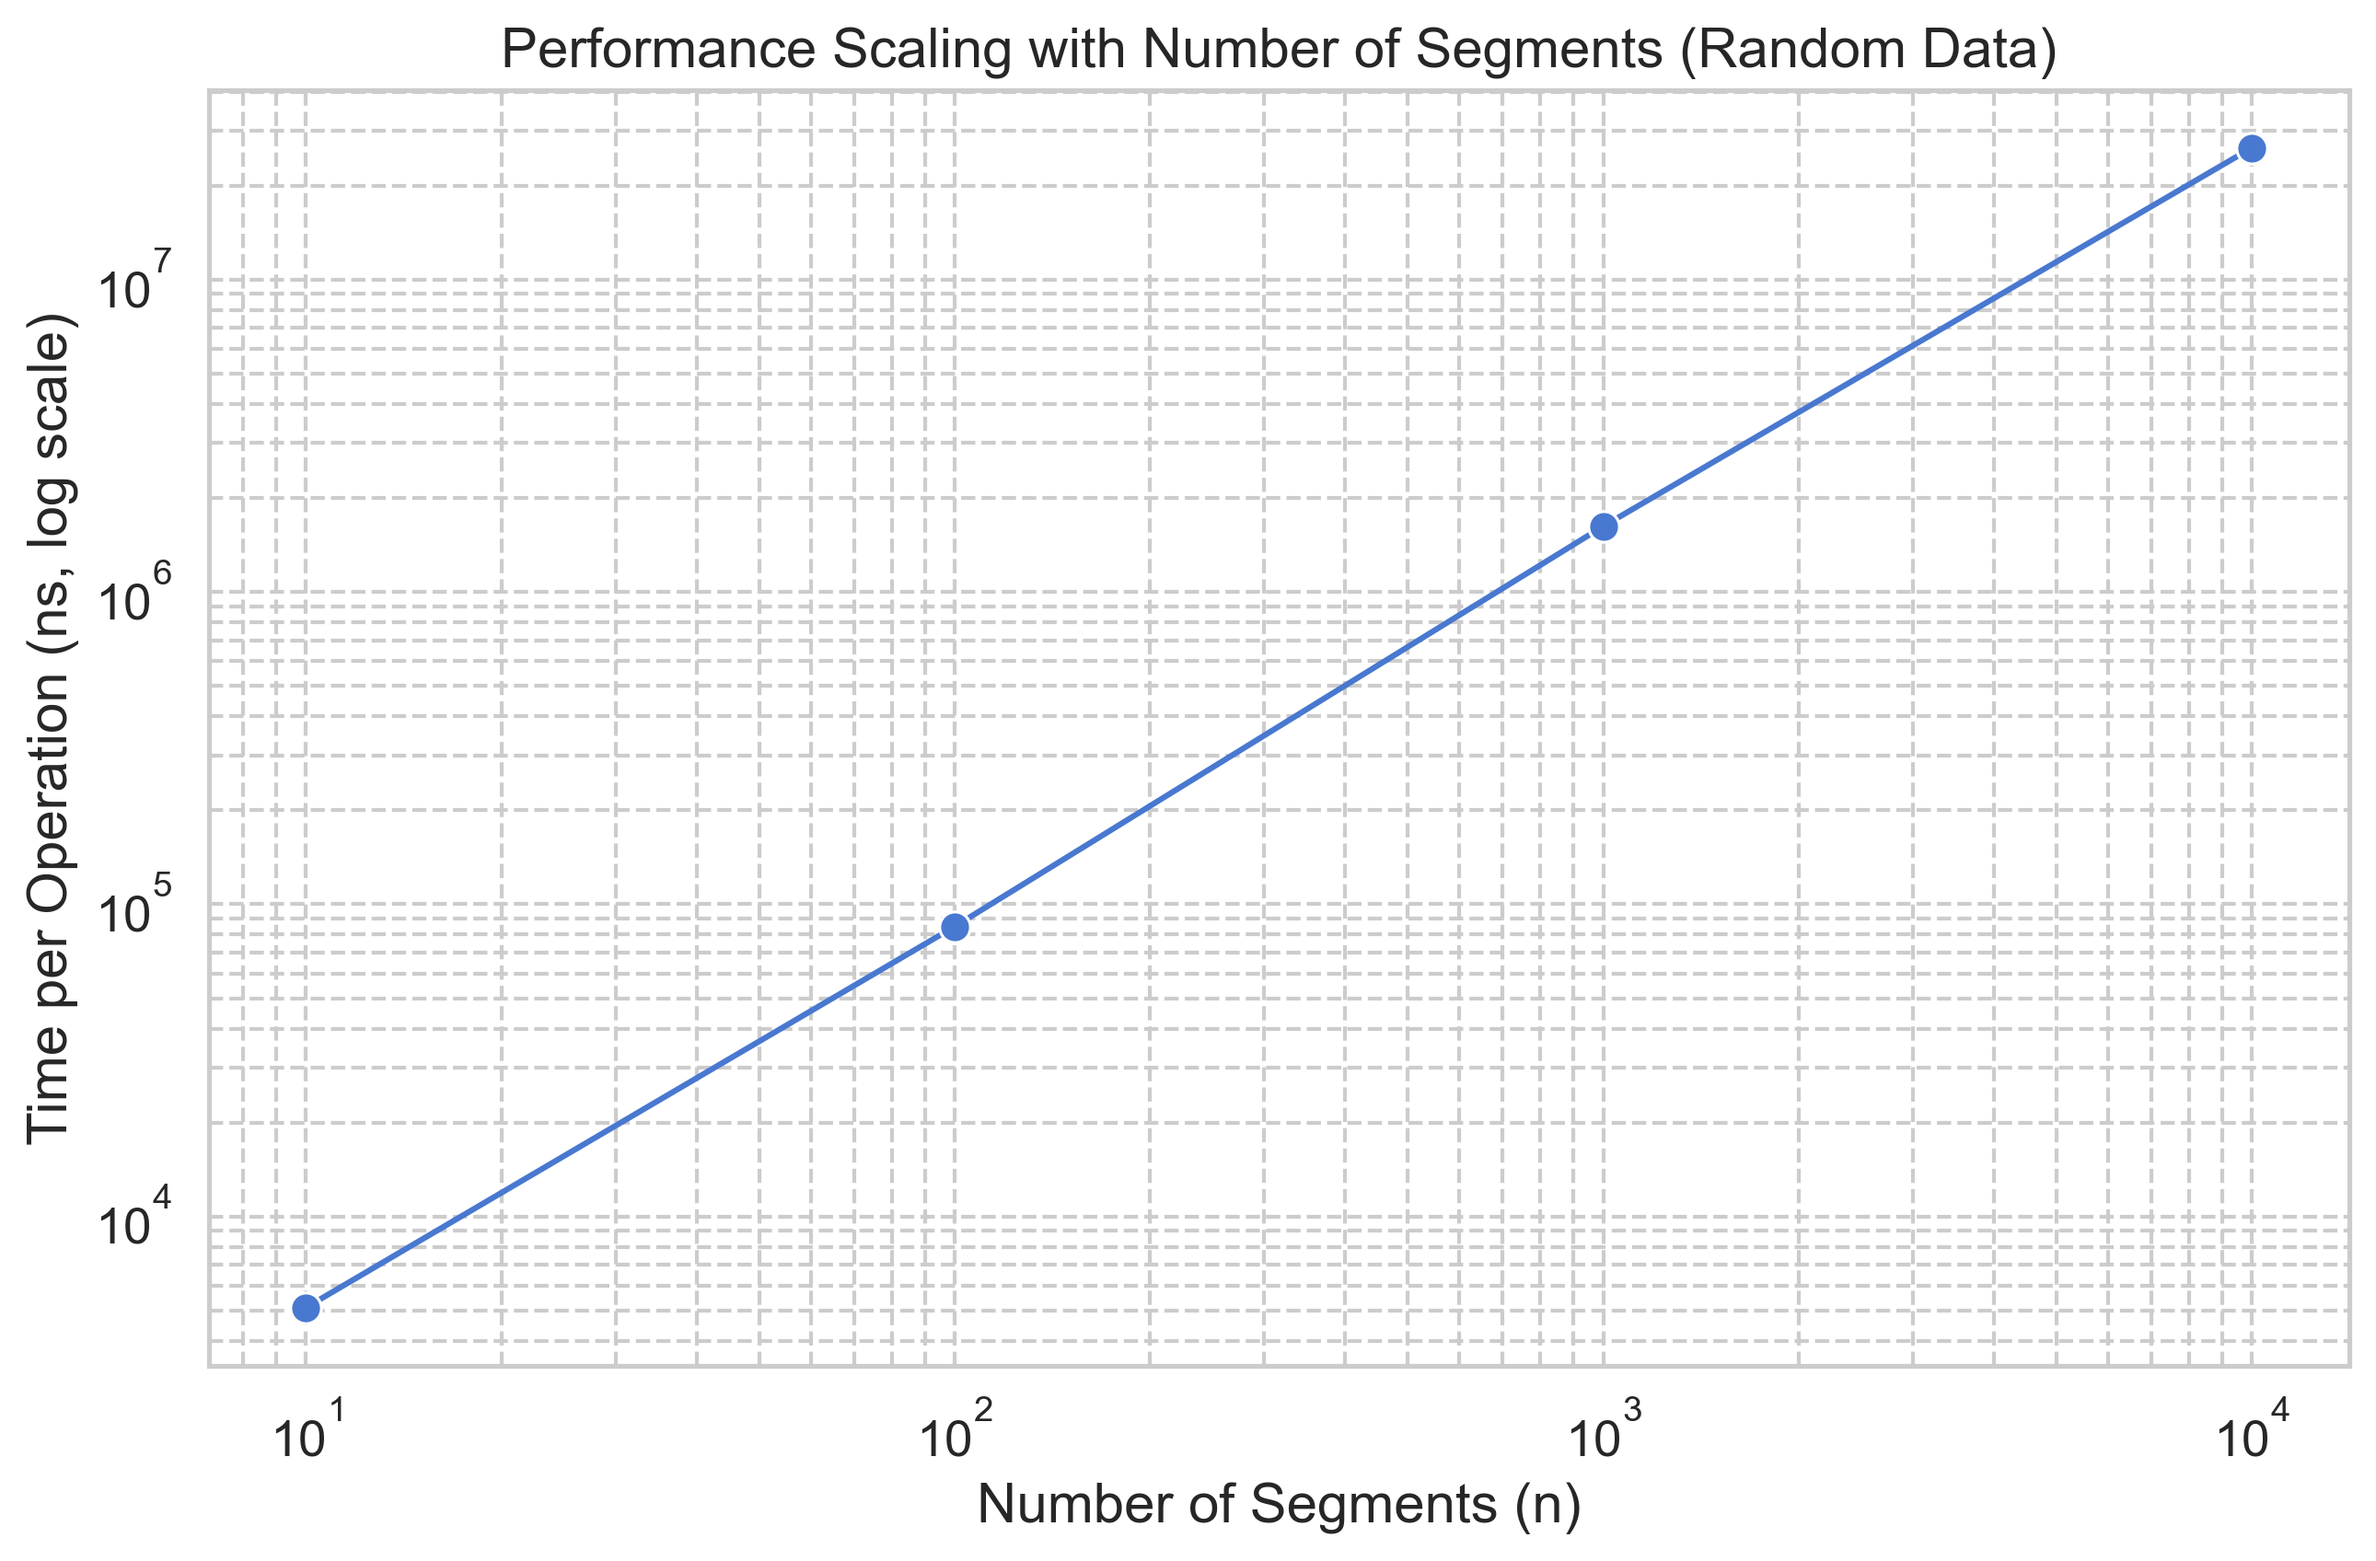
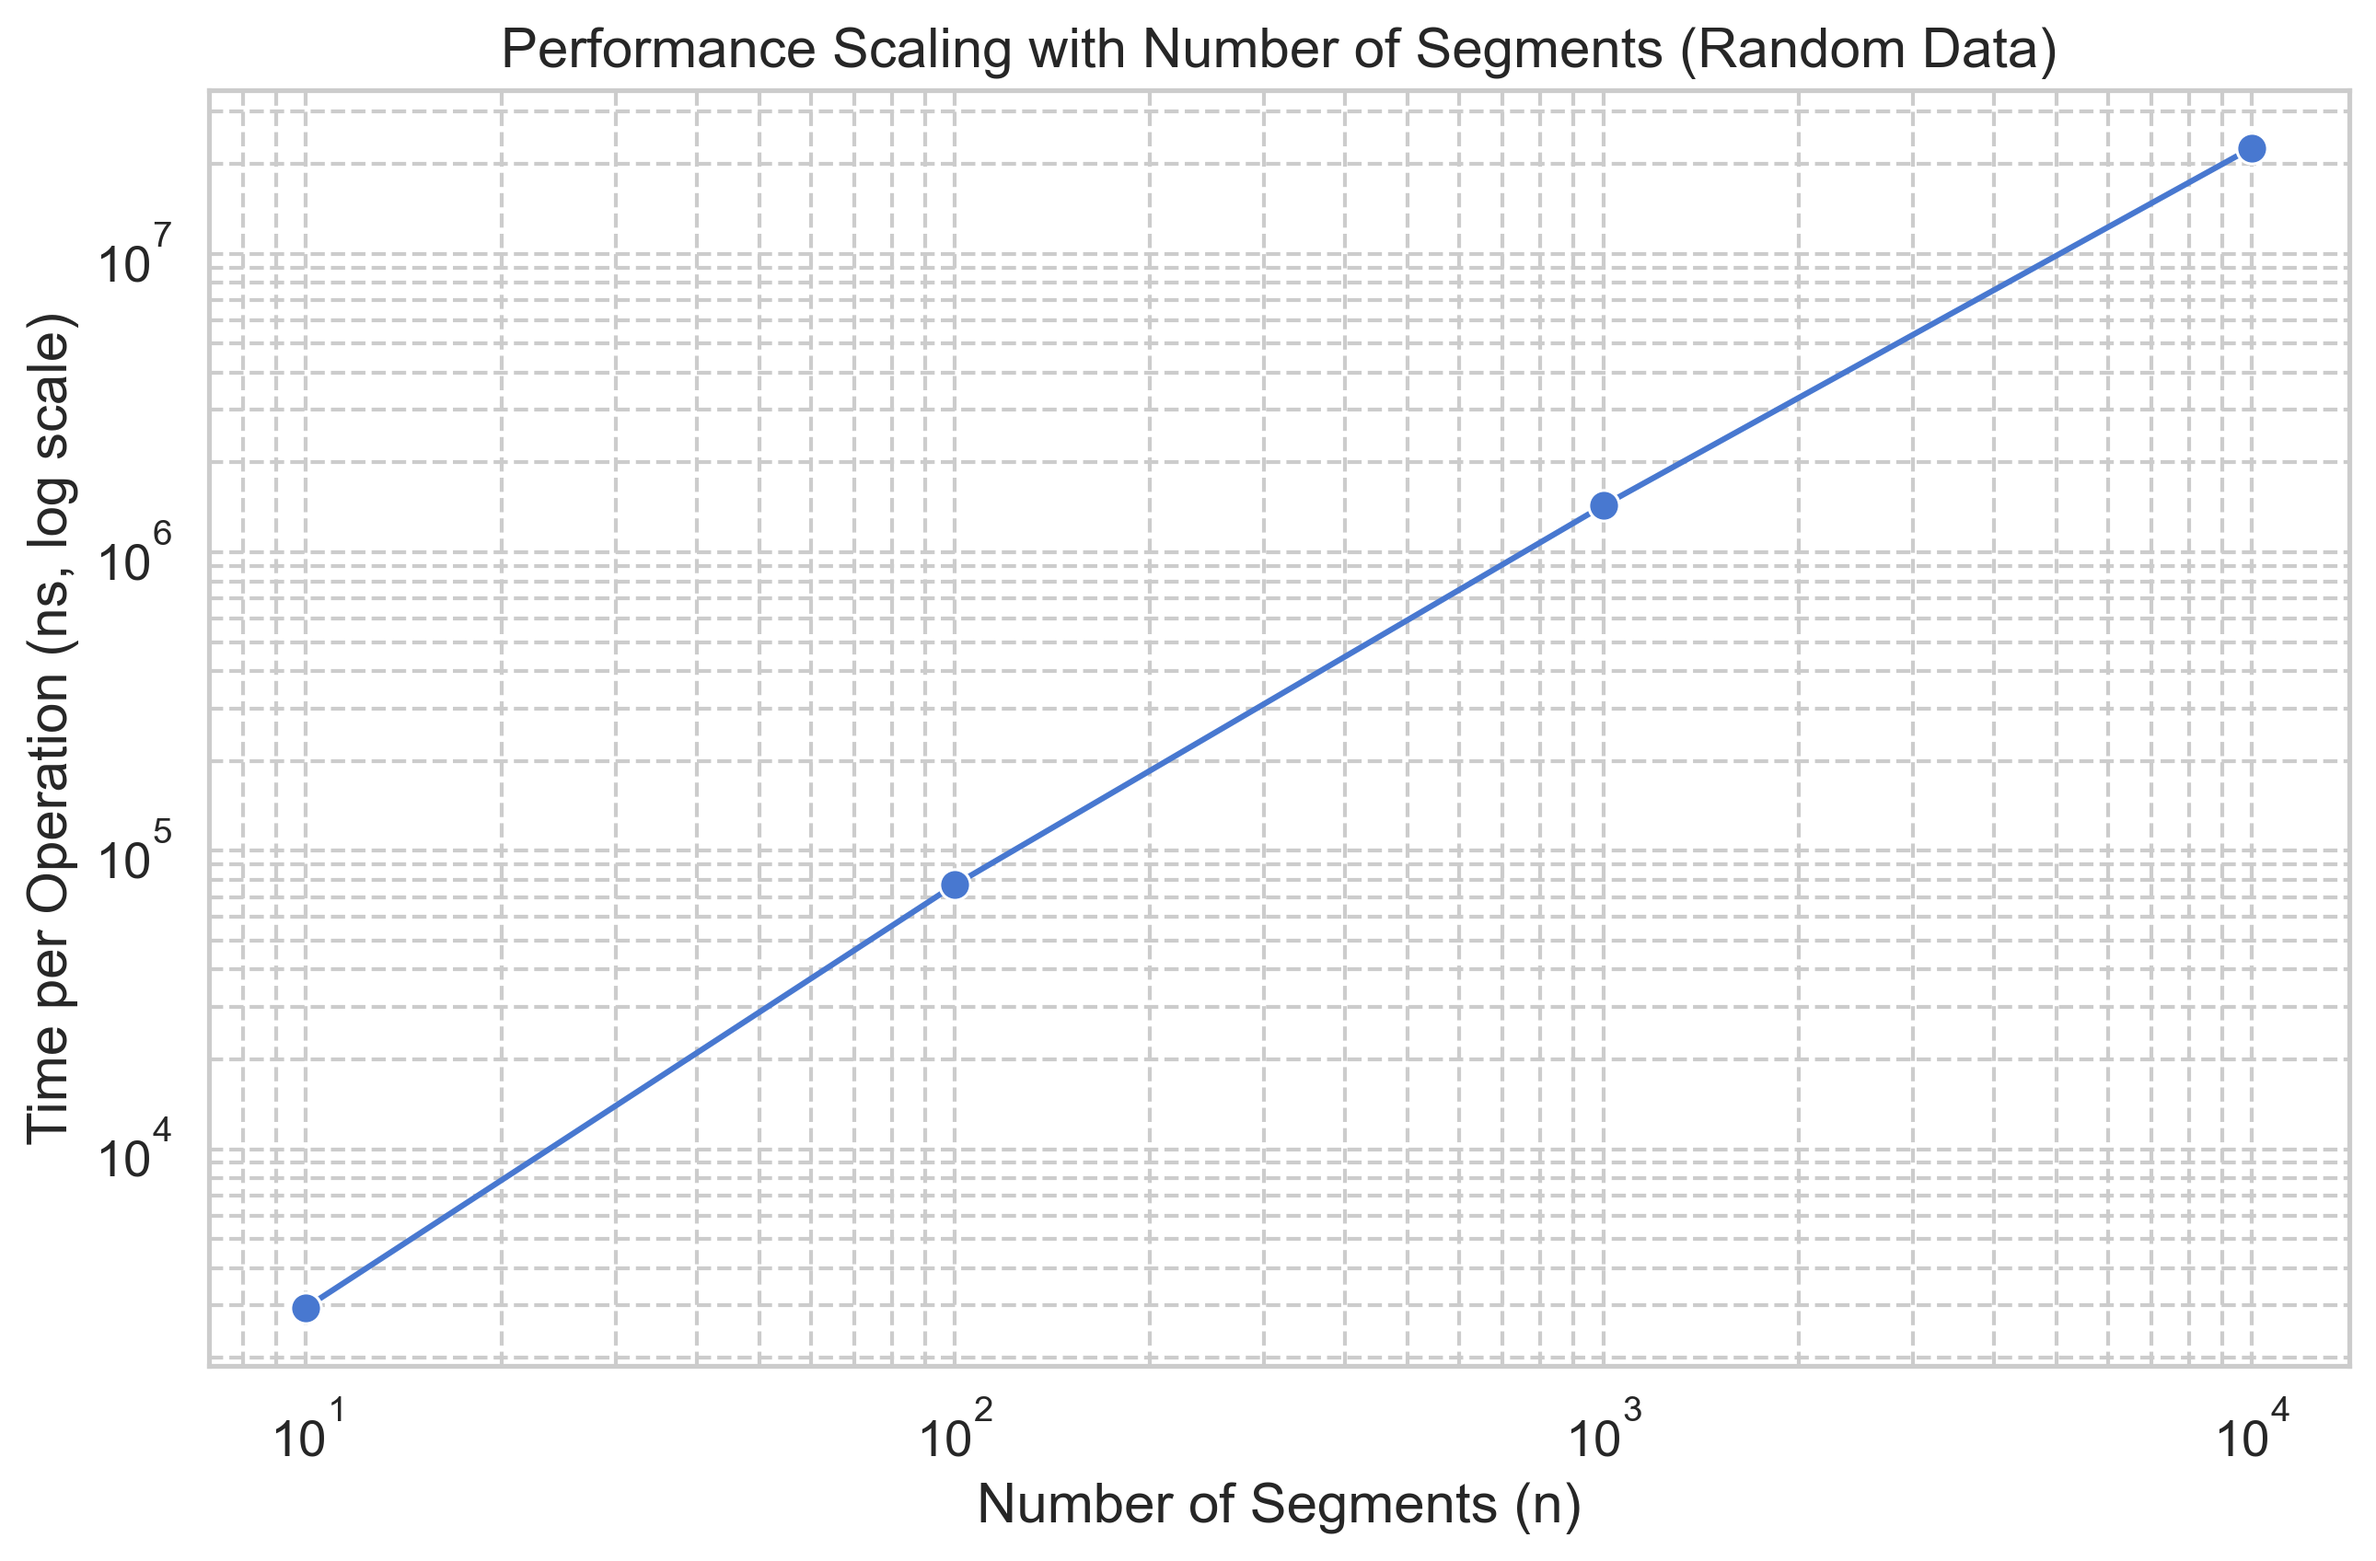
docs: update benchmark results

diff --git a/create_charts.py b/create_charts.py
@@ -9,13 +9,13 @@ sns.set_theme(style="whitegrid", palette="muted", font_scale=1.2)
 # This data is taken from the final, hyper-optimized benchmark run.
 random_data = {
     "N": [10, 100, 1000, 10000],
-    "Time/Op (ns)": [5113, 84862, 1623540, 26450798],
+    "Time/Op (ns)": [2947, 76822, 1433473, 22666170],
 }
 
 grid_data = {
     "Segments": [20, 100, 200, 400],
     "Intersections": [100, 2500, 10000, 40000],
-    "Time/Op (ns)": [46431, 1337919, 5866263, 25497388],
+    "Time/Op (ns)": [43430, 1202848, 5393481, 24858878],
 }
 
 # Convert the data into pandas DataFrames for easy plotting.

diff --git a/README.md b/README.md
@@ -76,14 +76,14 @@ This test uses a grid of segments to generate a high number of intersections. Th
 
 | Benchmark                                                        | Operations | Time/Op      | Memory/Op    | Allocs/Op  |
 | ---------------------------------------------------------------- | ---------- | ------------ | ------------ | ---------- |
-| `BenchmarkRandomSegments/N=10`                                   | 226754     | 5113 ns/op   | 2578 B/op    | 45 allocs/op   |
-| `BenchmarkRandomSegments/N=100`                                  | 14188      | 84862 ns/op  | 21938 B/op   | 340 allocs/op  |
-| `BenchmarkRandomSegments/N=1000`                                 | 728        | 1623540 ns/op| 241283 B/op  | 3766 allocs/op |
-| `BenchmarkRandomSegments/N=10000`                                | 45         | 26450798 ns/op| 2840804 B/op | 38514 allocs/op|
-| `BenchmarkGridSegments/Grid=10x10_Segments=20_Intersections=100`   | 25434      | 46431 ns/op  | 20838 B/op   | 426 allocs/op  |
-| `BenchmarkGridSegments/Grid=50x50_Segments=100_Intersections=2500` | 870        | 1337919 ns/op| 473002 B/op  | 10108 allocs/op|
-| `BenchmarkGridSegments/Grid=100x100_Segments=200_Intersections=10000`| 202        | 5866263 ns/op| 1873693 B/op | 40216 allocs/op|
-| `BenchmarkGridSegments/Grid=200x200_Segments=400_Intersections=40000`| 44         | 25497388 ns/op| 7442644 B/op | 160759 allocs/op|
+| `BenchmarkRandomSegments/N=10`                                   | 403344     | 2947 ns/op   | 1977 B/op    | 26 allocs/op   |
+| `BenchmarkRandomSegments/N=100`                                  | 15524      | 76822 ns/op  | 24716 B/op   | 335 allocs/op  |
+| `BenchmarkRandomSegments/N=1000`                                 | 825        | 1433473 ns/op| 259955 B/op  | 3625 allocs/op |
+| `BenchmarkRandomSegments/N=10000`                                | 50         | 22666170 ns/op| 3337015 B/op | 39149 allocs/op|
+| `BenchmarkGridSegments/Grid=10x10_Segments=20_Intersections=100`   | 27460      | 43430 ns/op  | 21351 B/op   | 426 allocs/op  |
+| `BenchmarkGridSegments/Grid=50x50_Segments=100_Intersections=2500` | 972        | 1202848 ns/op| 475963 B/op  | 10108 allocs/op|
+| `BenchmarkGridSegments/Grid=100x100_Segments=200_Intersections=10000`| 222        | 5393481 ns/op| 1879555 B/op | 40217 allocs/op|
+| `BenchmarkGridSegments/Grid=200x200_Segments=400_Intersections=40000`| 50         | 24858878 ns/op| 7453333 B/op | 160756 allocs/op|
 
 The results show excellent, predictable scaling in line with the algorithm's optimal complexity.
 
